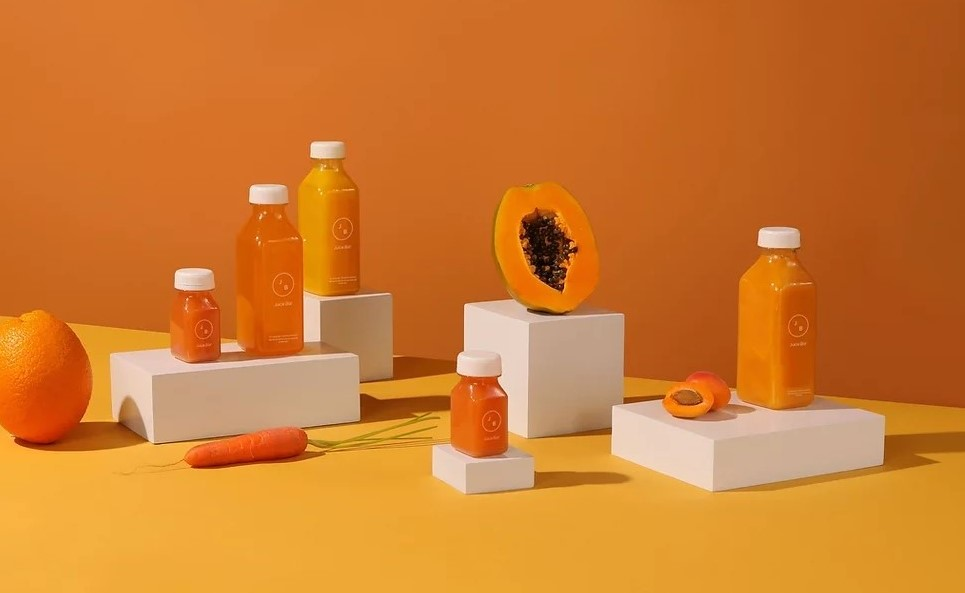
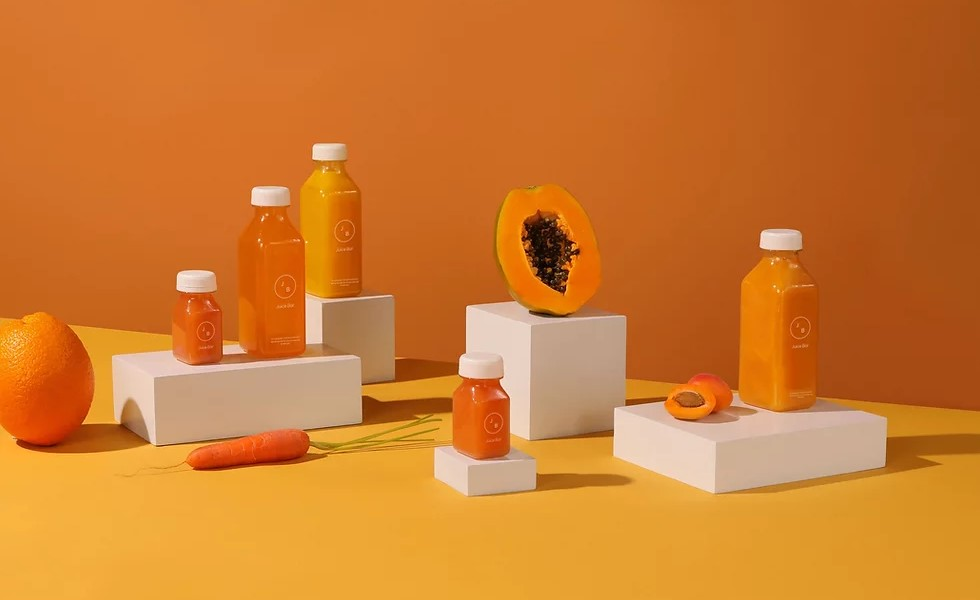
finished intro-section and added cards on this section!

diff --git a/index.html b/index.html
@@ -77,13 +77,67 @@
             ><a href="#">Try Now</a>
           </div>
           <div class="home-image">
-            <img src="./images/home-images.jpg" alt="home-image-fruits-juice" />
+            <img src="./images/home-image.jpg" alt="home-image-fruits-juice" />
           </div>
         </section>
-        <section class="introduction sections-container">
+        <section class="intro-section sections-container">
           <h1><span>What Makes Us</span><span> Different</span></h1>
           <article class="intro-card cards">
-            <span></span>
+            <span>
+              <svg
+                preserveAspectRatio="xMidYMid meet"
+                data-bbox="19.667 19.667 160.665 160.666"
+                viewBox="19.667 19.667 160.665 160.666"
+                height="100"
+                width="100"
+                xmlns="http://www.w3.org/2000/svg"
+                data-type="color"
+                role="presentation"
+                aria-hidden="true"
+                aria-labelledby="svgcid-8wl3zao5v5uq"
+              >
+                <defs>
+                  <style>
+                    #comp-kr0d2s2y svg [data-color="1"] {
+                      fill: #e6fac0;
+                    }
+                    #comp-kr0d2s2y svg [data-color="2"] {
+                      fill: #000000;
+                    }
+                  </style>
+                </defs>
+                <title id="svgcid-8wl3zao5v5uq"></title>
+                <g>
+                  <path
+                    d="M99.999 180.333c-44.367 0-80.332-35.967-80.332-80.333s35.965-80.333 80.332-80.333S180.332 55.633 180.332 100s-35.966 80.333-80.333 80.333z"
+                    fill="#EAFFC4"
+                    clip-rule="evenodd"
+                    fill-rule="evenodd"
+                    data-color="1"
+                  ></path>
+                  <path
+                    d="M98.992 141.761a.925.925 0 0 1-.924-.925v-17.362L69.323 102.08a.926.926 0 0 1-.19-1.294.929.929 0 0 1 1.294-.19l27.64 20.573V70.544a.925.925 0 1 1 1.848 0v56.058l24.875-23.922a.925.925 0 1 1 1.282 1.334l-26.104 25.105a.758.758 0 0 1-.053.046v11.673a.923.923 0 0 1-.923.923z"
+                    fill="#000000"
+                    data-color="2"
+                  ></path>
+                  <path
+                    d="M98.324 101.928a.973.973 0 0 1-.107-.006c-4.763-.543-13.871-8.362-13.871-18.994 0-9.676 6.549-20.248 15.235-24.592a.929.929 0 0 1 .986.1c7.694 6.047 13.082 15.336 13.406 23.115.348 8.358-4.814 15.998-10.084 19.863a.924.924 0 1 1-1.092-1.492c4.873-3.574 9.648-10.618 9.329-18.295-.296-7.115-5.19-15.634-12.238-21.367-7.719 4.157-13.693 13.986-13.693 22.667 0 9.646 8.602 16.743 12.233 17.156a.924.924 0 0 1 .813 1.023.924.924 0 0 1-.917.822z"
+                    fill="#000000"
+                    data-color="2"
+                  ></path>
+                  <path
+                    d="M118.852 122.832c-1.685 0-3.452-.166-5.299-.5a.924.924 0 1 1 .328-1.819c6.986 1.263 12.701-.034 16.984-3.854 8.25-7.361 8.992-22.118 9.04-25.795-12.867-.211-21.794 2.973-26.42 9.414-5.12 7.132-3.067 15.622-2.948 16.062a.923.923 0 0 1-.283 1.138.927.927 0 0 1-1.294-.19c-.45-.605-2.129-8.595 1.586-15.747 3.111-5.989 10.935-13.016 30.304-12.506a.924.924 0 0 1 .898.861c.012.184.614 18.956-9.63 28.124-3.579 3.202-8.026 4.812-13.266 4.812z"
+                    fill="#000000"
+                    data-color="2"
+                  ></path>
+                  <path
+                    d="M84.321 122.564c-3.845 0-10.209-.771-15.711-5.082-6.596-5.169-10.084-13.859-10.369-25.829a.924.924 0 0 1 .743-.929c10.486-2.09 20.102-.124 26.379 5.386 5.225 4.587 7.711 11.162 7.187 19.014-.036.509-.489.88-.984.861a.925.925 0 0 1-.861-.984c.483-7.256-1.785-13.307-6.563-17.5-5.688-4.995-14.42-6.84-24.03-5.108.394 10.883 3.58 18.788 9.475 23.505 7.831 6.266 17.737 4.639 17.833 4.62a.933.933 0 0 1 1.091.716.919.919 0 0 1-.698 1.092c-.035.006-1.385.238-3.492.238z"
+                    fill="#000000"
+                    data-color="2"
+                  ></path>
+                </g>
+              </svg>
+            </span>
             <h3>Locally Sourced</h3>
             <p>
               I'm a paragraph. Click here to add your own text and edit me. Let
@@ -91,7 +145,48 @@
             </p>
           </article>
           <article class="intro-card cards">
-            <span></span>
+            <span>
+              <svg
+                preserveAspectRatio="xMidYMid meet"
+                data-bbox="19.667 19.667 160.665 160.666"
+                viewBox="19.667 19.667 160.665 160.666"
+                height="100"
+                width="100"
+                xmlns="http://www.w3.org/2000/svg"
+                data-type="color"
+                role="presentation"
+                aria-hidden="true"
+                aria-labelledby="svgcid-6wkmitywpk1x"
+              >
+                <defs>
+                  <style>
+                    #comp-kr0d2s2a1 svg [data-color="1"] {
+                      fill: #e6fac0;
+                    }
+                    #comp-kr0d2s2a1 svg [data-color="2"] {
+                      fill: #000000;
+                    }
+                  </style>
+                </defs>
+                <title id="svgcid-6wkmitywpk1x"></title>
+                <g>
+                  <path
+                    d="M99.999 180.333c-44.367 0-80.332-35.967-80.332-80.333s35.965-80.333 80.332-80.333S180.332 55.633 180.332 100s-35.966 80.333-80.333 80.333z"
+                    fill="#EAFFC4"
+                    clip-rule="evenodd"
+                    fill-rule="evenodd"
+                    data-color="1"
+                  ></path>
+                  <path
+                    d="M125.962 105.992c3.123-7.336 4.708-13.986 4.708-19.772 0-16.878-13.759-30.611-30.67-30.611S69.33 69.341 69.33 86.22c0 5.786 1.585 12.437 4.71 19.772 2.48 5.82 5.933 12.091 10.262 18.639 5.692 8.606 11.433 15.444 13.781 18.146H83.297c-.58 0-1.053.361-1.053.807s.473.807 1.053.807h35.02c.582 0 1.053-.361 1.053-.807s-.471-.807-1.053-.807h-16.401c2.349-2.702 8.09-9.539 13.782-18.146 4.331-6.548 7.782-12.818 10.264-18.639zm-25.845-15.353c-.623 0-1.13.634-1.13 1.413v17.773a19.44 19.44 0 0 1-5.477-2.831c-3.849-2.874-5.801-6.729-5.801-11.461 0-9.922 8.629-23.144 11.485-27.248 2.856 4.102 11.483 17.321 11.483 27.248 0 4.732-1.95 8.587-5.799 11.461a19.202 19.202 0 0 1-3.632 2.114V92.052c0-.78-.506-1.413-1.129-1.413zm1.129 49.595v-28.763a21.53 21.53 0 0 0 4.927-2.709c3.075-2.275 6.741-6.417 6.741-13.229 0-12.534-12.293-29.09-12.815-29.79a1.132 1.132 0 0 0-.904-.447c-.359 0-.696.168-.904.447-.525.7-12.817 17.256-12.817 29.79 0 6.812 3.667 10.954 6.743 13.229 3.291 2.437 6.56 3.274 6.698 3.309.024.006.049.005.073.009v28.427c-2.641-3.091-7.791-9.378-12.892-17.095-9.55-14.443-14.597-27.305-14.597-37.193 0-15.685 12.787-28.447 28.502-28.447 15.717 0 28.504 12.762 28.504 28.447 0 9.888-5.049 22.749-14.597 37.193-4.962 7.503-9.959 13.645-12.662 16.822z"
+                    fill="#111111"
+                    clip-rule="evenodd"
+                    fill-rule="evenodd"
+                    data-color="2"
+                  ></path>
+                </g>
+              </svg>
+            </span>
             <h3>100% Natural Ingredients</h3>
             <p>
               I'm a paragraph. Click here to add your own text and edit me. Let
@@ -99,7 +194,51 @@
             </p>
           </article>
           <article class="intro-card cards">
-            <span></span>
+            <span
+              ><svg
+                preserveAspectRatio="xMidYMid meet"
+                data-bbox="19.667 19.667 160.665 160.666"
+                viewBox="19.667 19.667 160.665 160.666"
+                height="100"
+                width="100"
+                xmlns="http://www.w3.org/2000/svg"
+                data-type="color"
+                role="presentation"
+                aria-hidden="true"
+                aria-labelledby="svgcid-ysxisekjfct4"
+              >
+                <defs>
+                  <style>
+                    #comp-kr0d2s2p1 svg [data-color="1"] {
+                      fill: #e6fac0;
+                    }
+                    #comp-kr0d2s2p1 svg [data-color="2"] {
+                      fill: #000000;
+                    }
+                  </style>
+                </defs>
+                <title id="svgcid-ysxisekjfct4"></title>
+                <g>
+                  <path
+                    d="M99.999 180.333c-44.367 0-80.332-35.967-80.332-80.333s35.965-80.333 80.332-80.333S180.332 55.633 180.332 100s-35.966 80.333-80.333 80.333z"
+                    fill="#EAFFC4"
+                    clip-rule="evenodd"
+                    fill-rule="evenodd"
+                    data-color="1"
+                  ></path>
+                  <path
+                    d="M132.211 81.377c-11.935-11.978-28.805-15.499-41.199-8.655-2.817-1.107-5.832-.668-7.984 1.114-2.012-.967-3.35-2.5-4.228-4.05l.028-.291-.202-.024c-1.286-2.434-1.497-4.784-1.5-4.825-.04-.516-.478-.89-1.009-.866a.94.94 0 0 0-.867 1.007c.012.166.183 2.187 1.187 4.525-2.712-.028-8.639.448-13.518 4.635-4.485 3.849-6.897 9.823-7.169 17.754l-.031.872.867.096c.074.008.547.056 1.312.056 2.437 0 7.824-.494 12.591-4.371 4.263-3.468 6.925-8.768 7.964-15.74a11.092 11.092 0 0 0 3.236 2.664c-1.466 2.115-1.762 4.916-.737 7.54-2.74 5.001-3.856 10.934-3.229 17.19a.941.941 0 0 0 1.872-.188c-.605-6.036.507-11.733 3.218-16.477l.238-.417-.197-.438c-1.112-2.461-.726-5.161.983-6.878 1.71-1.713 4.398-2.098 6.845-.987l.439.2.419-.241c11.511-6.618 28.055-3.203 39.339 8.122 11.287 11.328 14.688 27.935 8.091 39.486l-.238.417.197.437c1.112 2.464.727 5.162-.984 6.878-1.707 1.712-4.394 2.102-6.844.987l-.44-.199-.418.24c-7.493 4.31-17.294 4.502-26.524.596 8.862-5.502 14.798-15.316 14.798-26.519v-.941H56.346v.941c0 17.201 13.945 31.195 31.086 31.195a30.77 30.77 0 0 0 14.277-3.515c5.019 2.335 10.246 3.512 15.261 3.512 4.944 0 9.68-1.135 13.802-3.406 3.048 1.198 6.346.606 8.505-1.561 2.163-2.169 2.75-5.474 1.554-8.535 6.82-12.437 3.315-29.362-8.62-41.34zm-62.887 5.5c-4.441 3.623-9.596 4.016-11.651 3.959.399-6.909 2.569-12.103 6.456-15.448 4.589-3.95 10.401-4.239 12.635-4.185-.839 7.059-3.34 12.329-7.44 15.674zm18.107 47.462c-15.79 0-28.693-12.642-29.19-28.372h58.38c-.496 15.73-13.399 28.372-29.19 28.372z"
+                    fill="#111111"
+                    data-color="2"
+                  ></path>
+                  <path
+                    d="M132.994 119.834a.941.941 0 0 0 1.283-.35c5.403-9.459 2.366-23.308-7.223-32.93-6.194-6.215-14.521-9.926-22.273-9.926a.94.94 0 1 0 0 1.88c7.264 0 15.093 3.504 20.942 9.373 9 9.033 11.912 21.932 6.922 30.669a.94.94 0 0 0 .349 1.284z"
+                    fill="#111111"
+                    data-color="2"
+                  ></path>
+                </g>
+              </svg>
+            </span>
             <h3>Just Picked Freshness</h3>
             <p>
               I'm a paragraph. Click here to add your own text and edit me. Let

diff --git a/css/style.css b/css/style.css
@@ -36,14 +36,11 @@ html {
 
 h1 {
   grid-column: 1/-1;
-  padding: 0 1rem;
   margin-top: 1rem;
   font-family: "Questrial", sans-serif;
   font-weight: 400;
   line-height: 1.3em;
   font-size: 32px;
-  display: flex;
-  flex-direction: column;
 }
 
 .button {
@@ -71,6 +68,10 @@ h1 {
   padding: 0;
   text-align: center;
 }
+.home h1 {
+  display: flex;
+  flex-direction: column;
+}
 
 .home p {
   grid-column: 1/-1;
@@ -89,9 +90,8 @@ h1 {
 
 .home-image {
   grid-column: 1/-1;
-  height: 300px;
   width: 100%;
-  min-height: 250px;
+  min-height: 200px;
   margin-top: 2rem;
   overflow: hidden;
 }
@@ -99,12 +99,13 @@ h1 {
 .home-image img {
   width: 100%;
   object-fit: cover;
+  object-fit: cover;
 }
 
 .online-order {
   grid-row: 5/-1;
   grid-column: 1/-1;
-  padding: 0.7rem 0;
+  padding: 0.6rem 0;
   background-color: rgb(235, 224, 245);
   display: flex;
   flex-direction: column;
@@ -117,15 +118,37 @@ h1 {
 }
 
 .cards {
-  grid-column: 1/-1;
-  padding: 0 1rem;
+  grid-column: 2/3;
   margin-top: 1rem;
   font-family: questrial, sans-serif;
   text-align: center;
+  overflow: hidden;
+  width: 270px;
+  height: auto;
+}
+
+.intro-section h1 {
+  grid-column: 2/3;
+  width: auto;
+  margin-top: 1.8rem;
+  display: flex;
+  flex-direction: column;
+}
+
+.intro-card span svg {
+  width: 80px;
+  height: 80px;
 }
 
 .cards h3 {
-  font-size: 1.5rem;
+  margin-top: 1rem;
+  line-height: 1.3em;
+  font-size: 1.4rem;
+}
+
+.cards p {
+  font-size: 16px;
+  line-height: 1.7em;
 }
 
 @media screen and (min-width: 650) {
